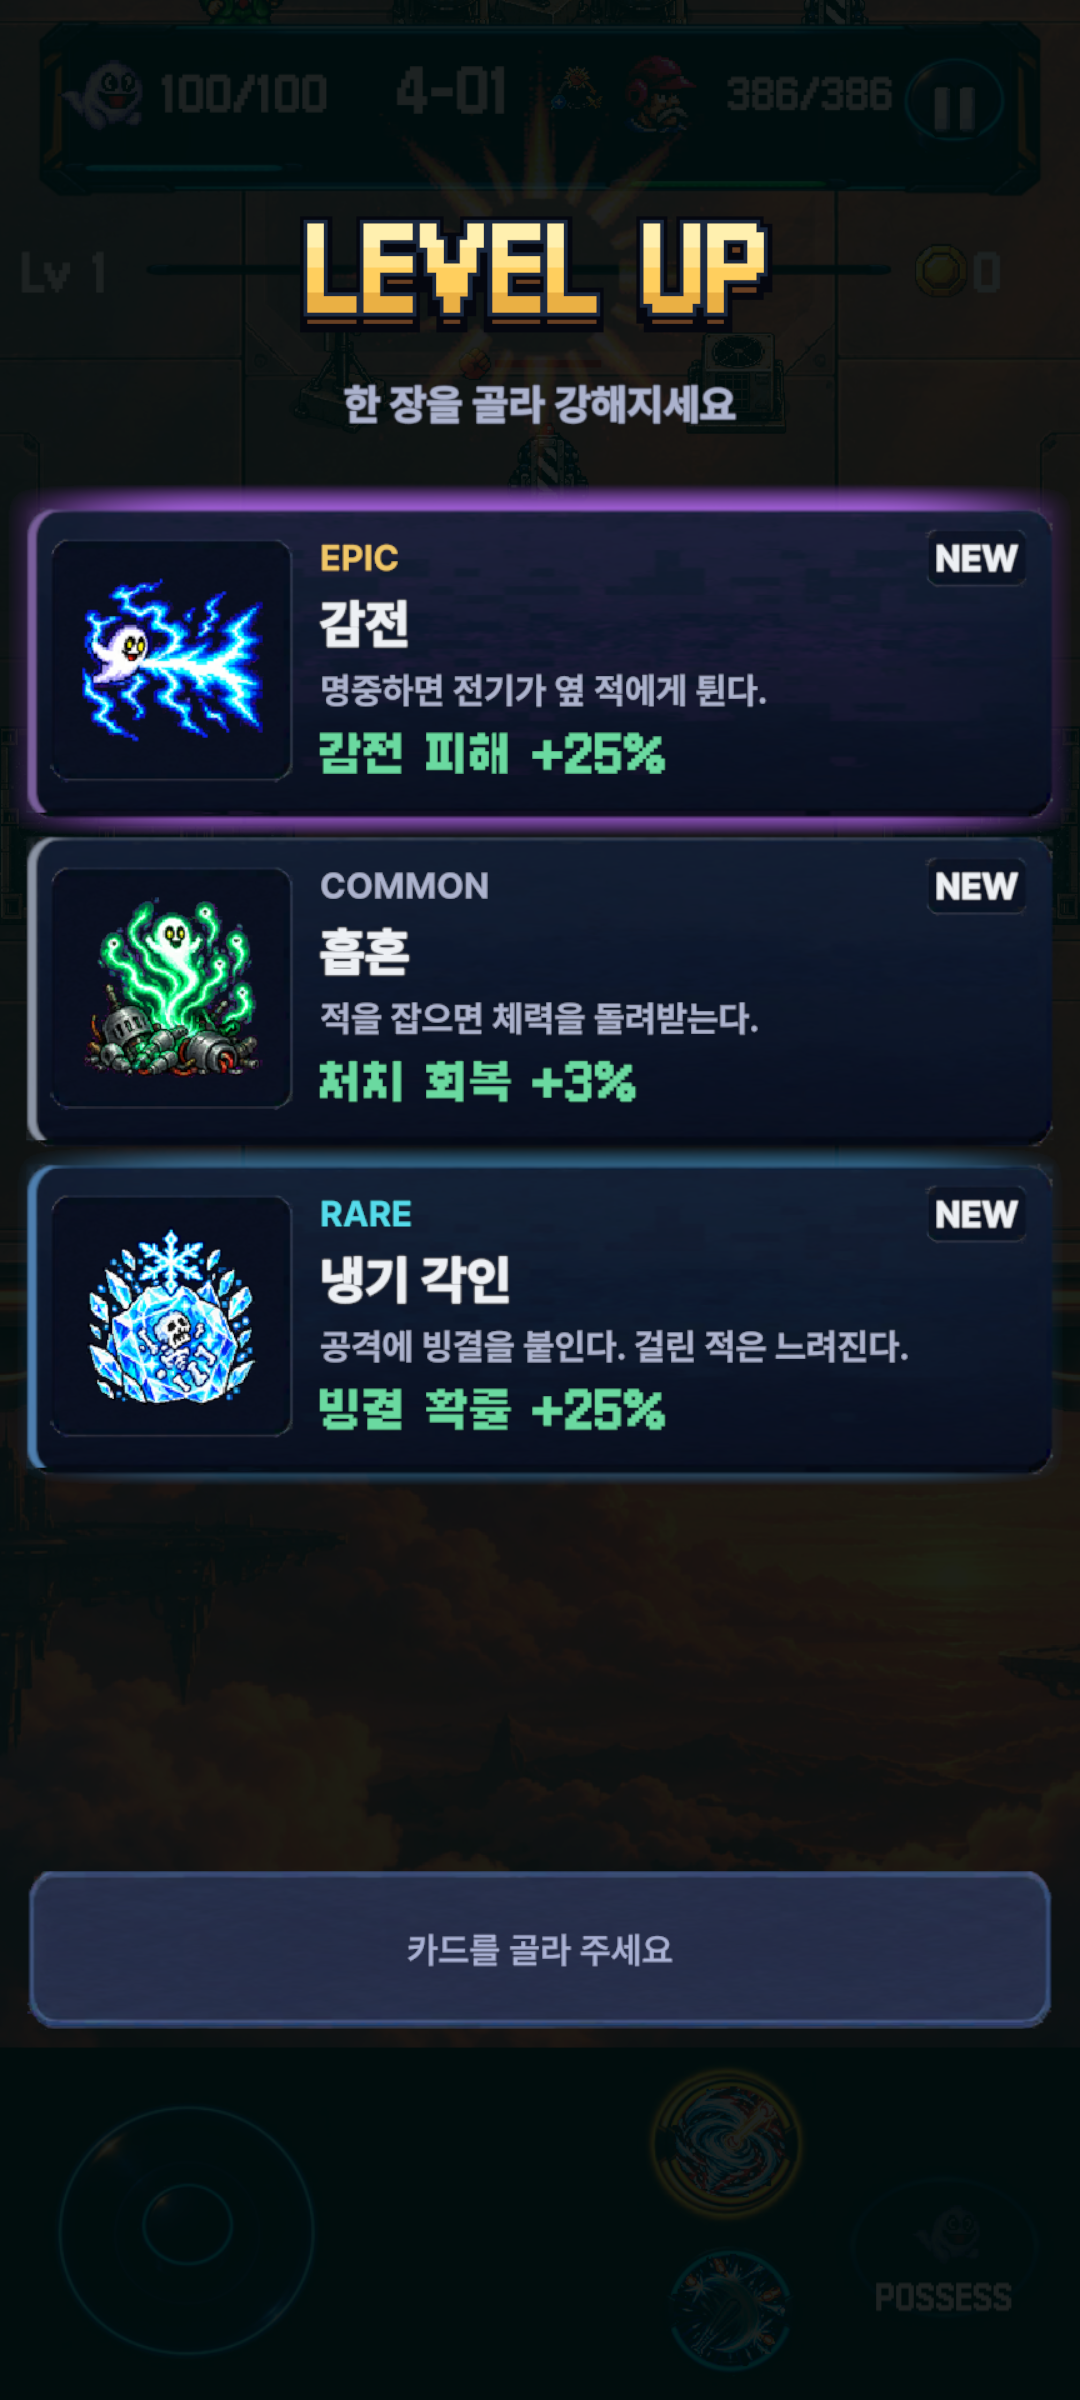
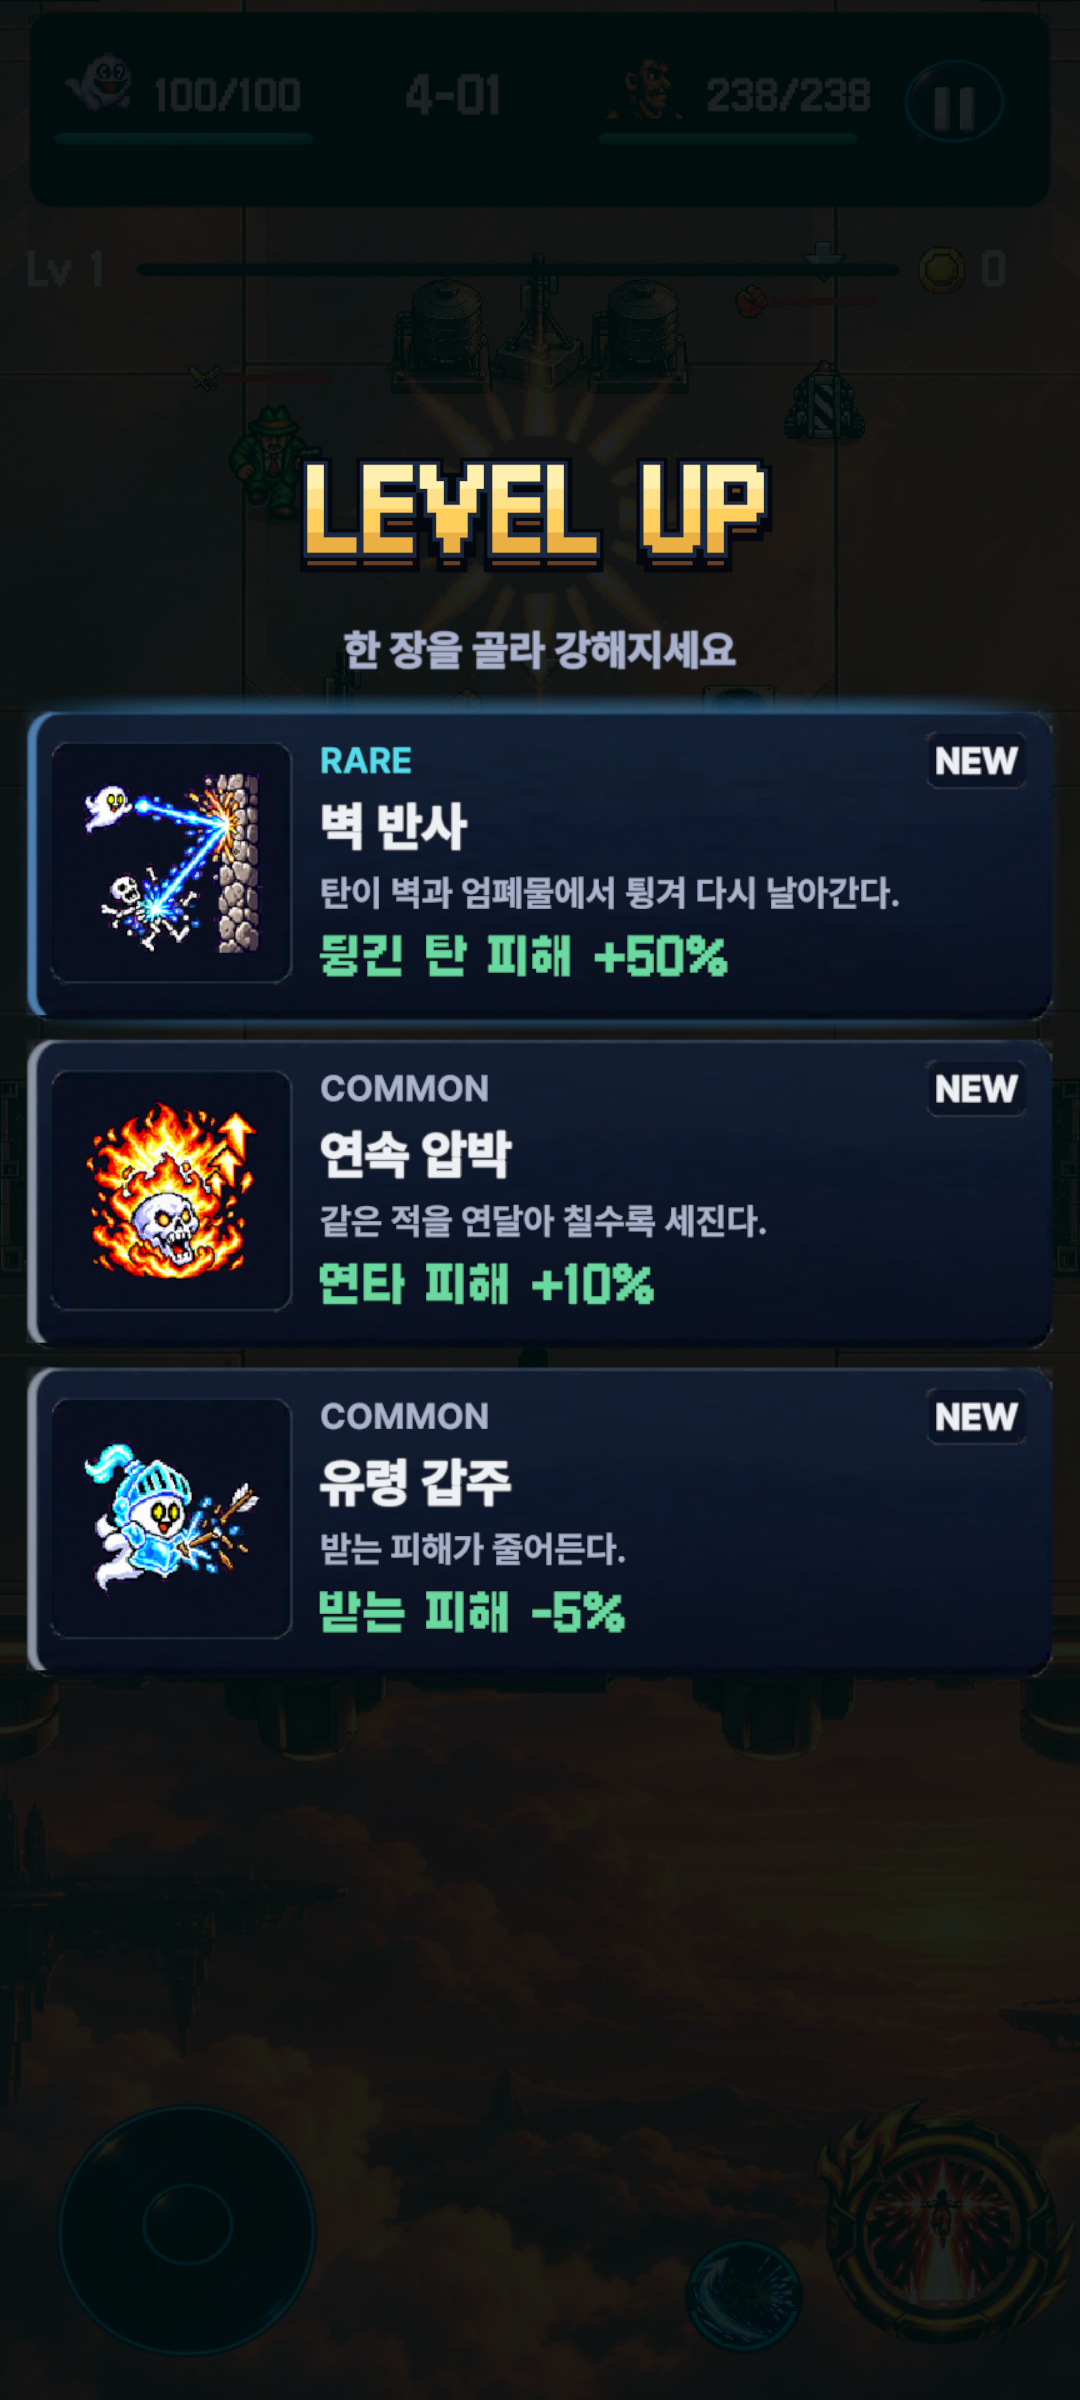
AVSR 레벨업 · 일시정지 창 20:9 · 4:3 확인 캡처 · 일시정지 카드 장면 두 해상도 추가

diff --git a/Assets/Scripts/Editor/ReBorn/RbShotTool.cs b/Assets/Scripts/Editor/ReBorn/RbShotTool.cs
@@ -284,6 +284,8 @@ namespace Game.Editor.ReBorn
             (720, 1280, Language.Korean, "ingame:pause", "pause_16x9"),
             // 카드가 찬 일시정지(등급 넷 섞어 5장 · 3장은 Lv 2) — PD 2026-10-27 「카드 찬 모습까지 확인」
             (720, 1280, Language.Korean, "ingame:pause_cards", "pause_cards_16x9"),
+            (1080, 2400, Language.Korean, "ingame:pause_cards", "pause_cards_20x9"),
+            (768, 1024, Language.Korean, "ingame:pause_cards", "pause_cards_4x3"),
             (720, 1280, Language.Korean, "ingame:abandon", "abandon_16x9"),
             (720, 1280, Language.Japanese, "ingame:pause", "pause_ja"),
             // 남은 화면(2026-10-24) — 보스 경고 · 다음 방 · 밤 몸 고르기 · 첫 판 안내
